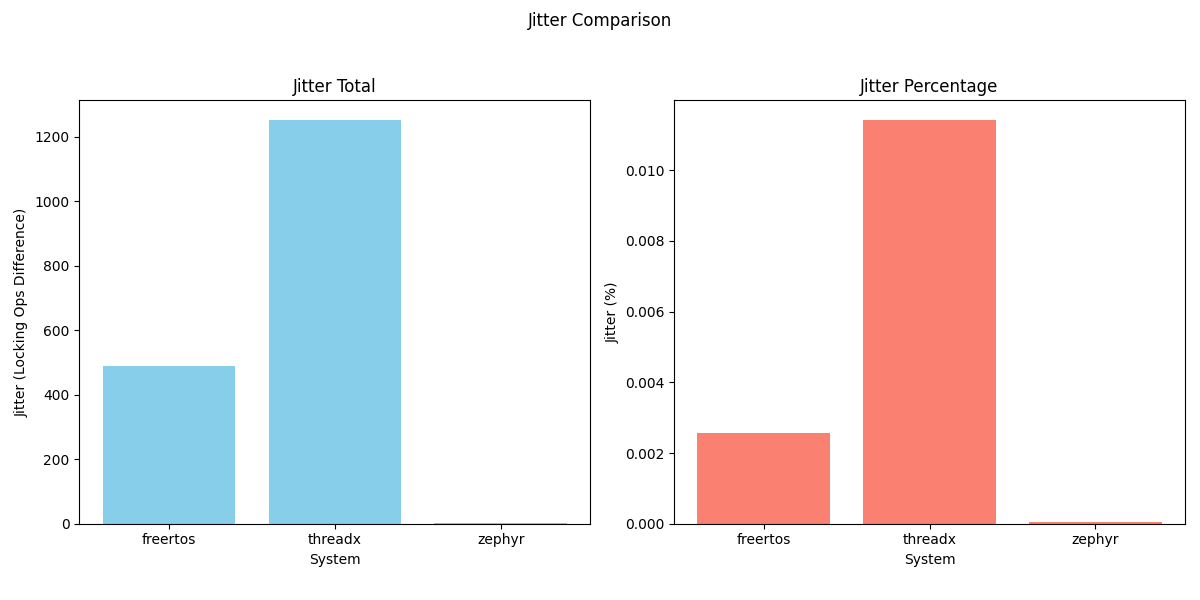
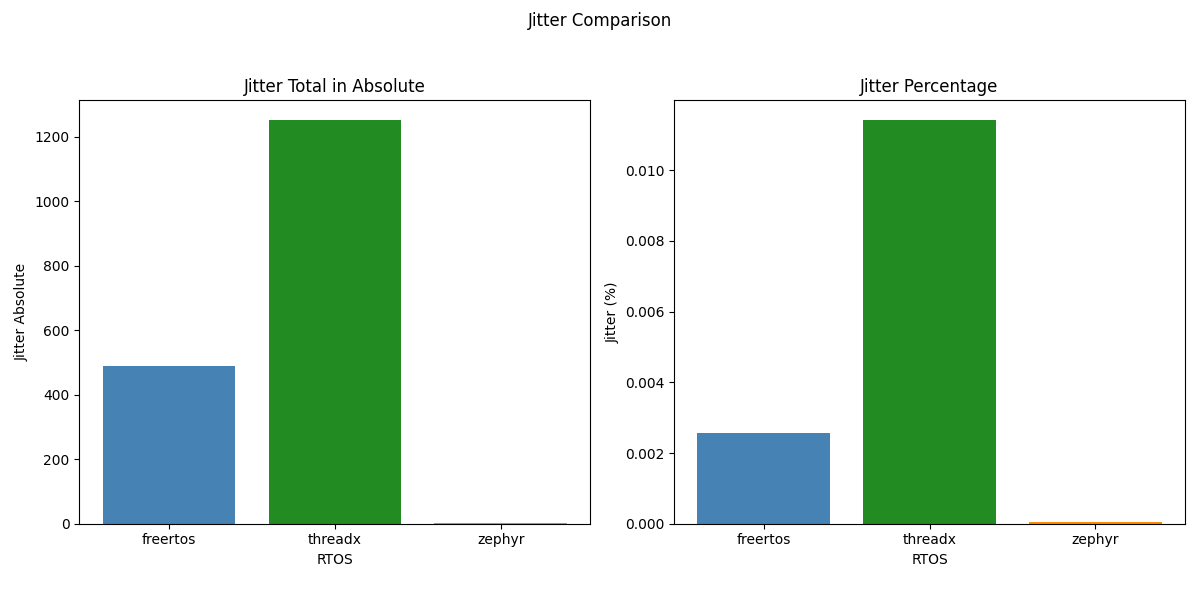
updated task locking plots and script

diff --git a/task_locking_test/analyse_and_plot.py b/task_locking_test/analyse_and_plot.py
@@ -1,3 +1,27 @@
+# Copyright (c) <2025> <Marco Milenkovic>
+#
+# This Code was generated with help of the ChatGPT and Github Copilot
+# The Code was carfeully reviewed and adjusted to work as intended
+# The Code is used to analyse and plot the critical section test results
+#
+# Permission is hereby granted, free of charge, to any person obtaining a copy of 
+# this software and associated documentation files (the "Software"), 
+# to deal in the Software without restriction, including without limitation the 
+# rights to use, copy, modify, merge, publish, distribute, sublicense, 
+# and/or sell copies of the Software, and to permit persons to whom the Software 
+# is furnished to do so, subject to the following conditions:
+#
+# The above copyright notice and this permission notice shall be included in all 
+# copies or substantial portions of the Software.
+#
+# THE SOFTWARE IS PROVIDED "AS IS", WITHOUT WARRANTY OF ANY KIND, EXPRESS OR IMPLIED, 
+# INCLUDING BUT NOT LIMITED TO THE WARRANTIES OF MERCHANTABILITY, FITNESS FOR 
+# A PARTICULAR PURPOSE AND NONINFRINGEMENT. IN NO EVENT SHALL THE AUTHORS OR 
+# COPYRIGHT HOLDERS BE LIABLE FOR ANY CLAIM, DAMAGES OR OTHER LIABILITY, WHETHER IN 
+# AN ACTION OF CONTRACT, TORT OR OTHERWISE, ARISING FROM, OUT OF OR IN CONNECTION 
+# WITH THE SOFTWARE OR THE USE OR OTHER DEALINGS IN THE SOFTWARE.
+
+
 import os, re, glob, statistics, argparse
 import numpy as np
 import matplotlib.pyplot as plt
@@ -185,14 +209,14 @@ def main():
         ops = tests[system]["locking_ops"]
         if rt and ops:
             ax1.plot(rt, ops, marker='o', label=system)
-    ax1.set_title("Locking Operations vs Relative Time")
+    ax1.set_title("Locking Operations over Time Period")
     ax1.set_xlabel("Relative Time")
     ax1.set_ylabel("Locking Operations")
     handles, labels = ax1.get_legend_handles_labels()
     if handles:
         ax1.legend()
     plt.tight_layout()
-    file1 = os.path.join(output_dir, "locking_operations_vs_time.png")
+    file1 = os.path.join(output_dir, "locking_operations_over_time.png")
     fig1.savefig(file1)
     plt.close(fig1)
     
@@ -201,15 +225,15 @@ def main():
     systems_list = list(jitter_metrics.keys())
     # Jitter Total
     jitter_totals = [jitter_metrics[s]["jitter_total"] for s in systems_list]
-    ax2a.bar(systems_list, jitter_totals, color='skyblue')
-    ax2a.set_title("Jitter Total")
-    ax2a.set_xlabel("System")
-    ax2a.set_ylabel("Jitter (Locking Ops Difference)")
+    ax2a.bar(systems_list, jitter_totals, color=['steelblue', 'forestgreen', 'darkorange'])
+    ax2a.set_title("Jitter Total in Absolute")
+    ax2a.set_xlabel("RTOS")
+    ax2a.set_ylabel("Jitter Absolute")
     # Jitter Percentage
     jitter_pct = [jitter_metrics[s]["jitter_pct"] for s in systems_list]
-    ax2b.bar(systems_list, jitter_pct, color='salmon')
+    ax2b.bar(systems_list, jitter_pct, color=['steelblue', 'forestgreen', 'darkorange'])
     ax2b.set_title("Jitter Percentage")
-    ax2b.set_xlabel("System")
+    ax2b.set_xlabel("RTOS")
     ax2b.set_ylabel("Jitter (%)")
     plt.suptitle("Jitter Comparison")
     plt.tight_layout(rect=[0, 0.03, 1, 0.95])
@@ -221,12 +245,12 @@ def main():
     fig3, ax3 = plt.subplots(figsize=(8, 6))
     systems_list = list(robust_locking.keys())
     locking_vals = [robust_locking[s] for s in systems_list]
-    ax3.bar(systems_list, locking_vals, color='mediumseagreen')
-    ax3.set_title("Robust Locking Operations")
-    ax3.set_xlabel("System")
-    ax3.set_ylabel("Robust Locking Ops (Median)")
+    ax3.bar(systems_list, locking_vals, color=['steelblue', 'forestgreen', 'darkorange'])
+    ax3.set_title("Robust Locking Operations Over Time Period")
+    ax3.set_xlabel("RTOS")
+    ax3.set_ylabel("Average Locking Operations")
     plt.tight_layout()
-    file3 = os.path.join(output_dir, "robust_locking_ops.png")
+    file3 = os.path.join(output_dir, "average_locking_ops.png")
     fig3.savefig(file3)
     plt.close(fig3)
     
@@ -234,12 +258,12 @@ def main():
     fig4, ax4 = plt.subplots(figsize=(8, 6))
     systems_list = list(robust_cycle.keys())
     cycle_vals = [robust_cycle[s] for s in systems_list]
-    ax4.bar(systems_list, cycle_vals, color='mediumpurple')
-    ax4.set_title("Robust Cycle Count")
-    ax4.set_xlabel("System")
-    ax4.set_ylabel("Robust Cycle Count (Median, Adjusted)")
+    ax4.bar(systems_list, cycle_vals, color=['steelblue', 'forestgreen', 'darkorange'])
+    ax4.set_title("Average Cycle Count for Locking a Thread")
+    ax4.set_xlabel("RTOS")
+    ax4.set_ylabel("Average Cycle Count")
     plt.tight_layout()
-    file4 = os.path.join(output_dir, "robust_cycle_count.png")
+    file4 = os.path.join(output_dir, "average_cycle_count_comparison.png")
     fig4.savefig(file4)
     plt.close(fig4)
     
@@ -263,13 +287,27 @@ def main():
     fig5.savefig(file5)
     plt.close(fig5)
     
-    # --- Write Summary Table to a .txt File ---
-    summary_file = os.path.join(output_dir, "benchmark_summary.txt")
-    with open(summary_file, "w") as f:
-        header = ("System\tAvg Locking Ops\tJitter Total\tJitter %\t" +
-                  "Robust Locking Ops\tRobust Cycle Count\t" +
-                  "ICache Miss\tDCache Access\tDCache Miss\n")
-        f.write(header)
+    import csv
+
+    output_dir = "plot"  # Assuming output_dir is defined like this
+    os.makedirs(output_dir, exist_ok=True)
+    summary_file = os.path.join(output_dir, "benchmark_summary.csv")
+
+    with open(summary_file, "w", newline="") as csvfile:
+        csvwriter = csv.writer(csvfile)
+        header = [
+            "System",
+            "Avg Locking Ops",
+            "Jitter Total",
+            "Jitter %",
+            "Robust Locking Ops",
+            "Robust Cycle Count",
+            "ICache Miss",
+            "DCache Access",
+            "DCache Miss"
+        ]
+        csvwriter.writerow(header)
+        
         systems = sorted(set(list(tests.keys()) + list(calibrations.keys())))
         for system in systems:
             avg_ops = jitter_metrics[system]["avg"] if system in jitter_metrics else 0
@@ -277,10 +315,21 @@ def main():
             jitter_percent = jitter_metrics[system]["jitter_pct"] if system in jitter_metrics else 0
             r_lock = robust_locking[system] if system in robust_locking else 0
             r_cycle = robust_cycle[system] if system in robust_cycle else 0
-            cache = cache_stats[system] if system in cache_stats else {"ICache Miss":0, "DCache Access":0, "DCache Miss":0}
-            line = (f"{system}\t{avg_ops:.2f}\t{jitter_tot}\t{jitter_percent:.2f}\t" +
-                    f"{r_lock}\t{r_cycle}\t{cache['ICache Miss']:.2f}\t{cache['DCache Access']:.2f}\t{cache['DCache Miss']:.2f}\n")
-            f.write(line)
+            cache = cache_stats[system] if system in cache_stats else {"ICache Miss": 0, "DCache Access": 0, "DCache Miss": 0}
+            
+            row = [
+                system,
+                f"{avg_ops:.2f}",
+                jitter_tot,
+                f"{jitter_percent:.2f}",
+                r_lock,
+                r_cycle,
+                f"{cache['ICache Miss']:.2f}",
+                f"{cache['DCache Access']:.2f}",
+                f"{cache['DCache Miss']:.2f}"
+            ]
+            csvwriter.writerow(row)
+
     
 if __name__ == "__main__":
     main()

diff --git a/tests_auf_default/task_locking_test/analyse_and_plot.py b/tests_auf_default/task_locking_test/analyse_and_plot.py
@@ -1,3 +1,27 @@
+# Copyright (c) <2025> <Marco Milenkovic>
+#
+# This Code was generated with help of the ChatGPT and Github Copilot
+# The Code was carfeully reviewed and adjusted to work as intended
+# The Code is used to analyse and plot the critical section test results
+#
+# Permission is hereby granted, free of charge, to any person obtaining a copy of 
+# this software and associated documentation files (the "Software"), 
+# to deal in the Software without restriction, including without limitation the 
+# rights to use, copy, modify, merge, publish, distribute, sublicense, 
+# and/or sell copies of the Software, and to permit persons to whom the Software 
+# is furnished to do so, subject to the following conditions:
+#
+# The above copyright notice and this permission notice shall be included in all 
+# copies or substantial portions of the Software.
+#
+# THE SOFTWARE IS PROVIDED "AS IS", WITHOUT WARRANTY OF ANY KIND, EXPRESS OR IMPLIED, 
+# INCLUDING BUT NOT LIMITED TO THE WARRANTIES OF MERCHANTABILITY, FITNESS FOR 
+# A PARTICULAR PURPOSE AND NONINFRINGEMENT. IN NO EVENT SHALL THE AUTHORS OR 
+# COPYRIGHT HOLDERS BE LIABLE FOR ANY CLAIM, DAMAGES OR OTHER LIABILITY, WHETHER IN 
+# AN ACTION OF CONTRACT, TORT OR OTHERWISE, ARISING FROM, OUT OF OR IN CONNECTION 
+# WITH THE SOFTWARE OR THE USE OR OTHER DEALINGS IN THE SOFTWARE.
+
+
 import os, re, glob, statistics, argparse
 import numpy as np
 import matplotlib.pyplot as plt
@@ -185,14 +209,14 @@ def main():
         ops = tests[system]["locking_ops"]
         if rt and ops:
             ax1.plot(rt, ops, marker='o', label=system)
-    ax1.set_title("Locking Operations vs Relative Time")
+    ax1.set_title("Locking Operations over Time Period")
     ax1.set_xlabel("Relative Time")
     ax1.set_ylabel("Locking Operations")
     handles, labels = ax1.get_legend_handles_labels()
     if handles:
         ax1.legend()
     plt.tight_layout()
-    file1 = os.path.join(output_dir, "locking_operations_vs_time.png")
+    file1 = os.path.join(output_dir, "locking_operations_over_time.png")
     fig1.savefig(file1)
     plt.close(fig1)
     
@@ -201,15 +225,15 @@ def main():
     systems_list = list(jitter_metrics.keys())
     # Jitter Total
     jitter_totals = [jitter_metrics[s]["jitter_total"] for s in systems_list]
-    ax2a.bar(systems_list, jitter_totals, color='skyblue')
-    ax2a.set_title("Jitter Total")
-    ax2a.set_xlabel("System")
-    ax2a.set_ylabel("Jitter (Locking Ops Difference)")
+    ax2a.bar(systems_list, jitter_totals, color=['steelblue', 'forestgreen', 'darkorange'])
+    ax2a.set_title("Jitter Total in Absolute")
+    ax2a.set_xlabel("RTOS")
+    ax2a.set_ylabel("Jitter Absolute")
     # Jitter Percentage
     jitter_pct = [jitter_metrics[s]["jitter_pct"] for s in systems_list]
-    ax2b.bar(systems_list, jitter_pct, color='salmon')
+    ax2b.bar(systems_list, jitter_pct, color=['steelblue', 'forestgreen', 'darkorange'])
     ax2b.set_title("Jitter Percentage")
-    ax2b.set_xlabel("System")
+    ax2b.set_xlabel("RTOS")
     ax2b.set_ylabel("Jitter (%)")
     plt.suptitle("Jitter Comparison")
     plt.tight_layout(rect=[0, 0.03, 1, 0.95])
@@ -221,12 +245,12 @@ def main():
     fig3, ax3 = plt.subplots(figsize=(8, 6))
     systems_list = list(robust_locking.keys())
     locking_vals = [robust_locking[s] for s in systems_list]
-    ax3.bar(systems_list, locking_vals, color='mediumseagreen')
-    ax3.set_title("Robust Locking Operations")
-    ax3.set_xlabel("System")
-    ax3.set_ylabel("Robust Locking Ops (Median)")
+    ax3.bar(systems_list, locking_vals, color=['steelblue', 'forestgreen', 'darkorange'])
+    ax3.set_title("Robust Locking Operations Over Time Period")
+    ax3.set_xlabel("RTOS")
+    ax3.set_ylabel("Average Locking Operations")
     plt.tight_layout()
-    file3 = os.path.join(output_dir, "robust_locking_ops.png")
+    file3 = os.path.join(output_dir, "average_locking_ops.png")
     fig3.savefig(file3)
     plt.close(fig3)
     
@@ -234,12 +258,12 @@ def main():
     fig4, ax4 = plt.subplots(figsize=(8, 6))
     systems_list = list(robust_cycle.keys())
     cycle_vals = [robust_cycle[s] for s in systems_list]
-    ax4.bar(systems_list, cycle_vals, color='mediumpurple')
-    ax4.set_title("Robust Cycle Count")
-    ax4.set_xlabel("System")
-    ax4.set_ylabel("Robust Cycle Count (Median, Adjusted)")
+    ax4.bar(systems_list, cycle_vals, color=['steelblue', 'forestgreen', 'darkorange'])
+    ax4.set_title("Average Cycle Count for Locking a Thread")
+    ax4.set_xlabel("RTOS")
+    ax4.set_ylabel("Average Cycle Count")
     plt.tight_layout()
-    file4 = os.path.join(output_dir, "robust_cycle_count.png")
+    file4 = os.path.join(output_dir, "average_cycle_count_comparison.png")
     fig4.savefig(file4)
     plt.close(fig4)
     
@@ -263,13 +287,27 @@ def main():
     fig5.savefig(file5)
     plt.close(fig5)
     
-    # --- Write Summary Table to a .txt File ---
-    summary_file = os.path.join(output_dir, "benchmark_summary.txt")
-    with open(summary_file, "w") as f:
-        header = ("System\tAvg Locking Ops\tJitter Total\tJitter %\t" +
-                  "Robust Locking Ops\tRobust Cycle Count\t" +
-                  "ICache Miss\tDCache Access\tDCache Miss\n")
-        f.write(header)
+    import csv
+
+    output_dir = "plot"  # Assuming output_dir is defined like this
+    os.makedirs(output_dir, exist_ok=True)
+    summary_file = os.path.join(output_dir, "benchmark_summary.csv")
+
+    with open(summary_file, "w", newline="") as csvfile:
+        csvwriter = csv.writer(csvfile)
+        header = [
+            "System",
+            "Avg Locking Ops",
+            "Jitter Total",
+            "Jitter %",
+            "Robust Locking Ops",
+            "Robust Cycle Count",
+            "ICache Miss",
+            "DCache Access",
+            "DCache Miss"
+        ]
+        csvwriter.writerow(header)
+        
         systems = sorted(set(list(tests.keys()) + list(calibrations.keys())))
         for system in systems:
             avg_ops = jitter_metrics[system]["avg"] if system in jitter_metrics else 0
@@ -277,10 +315,21 @@ def main():
             jitter_percent = jitter_metrics[system]["jitter_pct"] if system in jitter_metrics else 0
             r_lock = robust_locking[system] if system in robust_locking else 0
             r_cycle = robust_cycle[system] if system in robust_cycle else 0
-            cache = cache_stats[system] if system in cache_stats else {"ICache Miss":0, "DCache Access":0, "DCache Miss":0}
-            line = (f"{system}\t{avg_ops:.2f}\t{jitter_tot}\t{jitter_percent:.2f}\t" +
-                    f"{r_lock}\t{r_cycle}\t{cache['ICache Miss']:.2f}\t{cache['DCache Access']:.2f}\t{cache['DCache Miss']:.2f}\n")
-            f.write(line)
+            cache = cache_stats[system] if system in cache_stats else {"ICache Miss": 0, "DCache Access": 0, "DCache Miss": 0}
+            
+            row = [
+                system,
+                f"{avg_ops:.2f}",
+                jitter_tot,
+                f"{jitter_percent:.2f}",
+                r_lock,
+                r_cycle,
+                f"{cache['ICache Miss']:.2f}",
+                f"{cache['DCache Access']:.2f}",
+                f"{cache['DCache Miss']:.2f}"
+            ]
+            csvwriter.writerow(row)
+
     
 if __name__ == "__main__":
     main()
